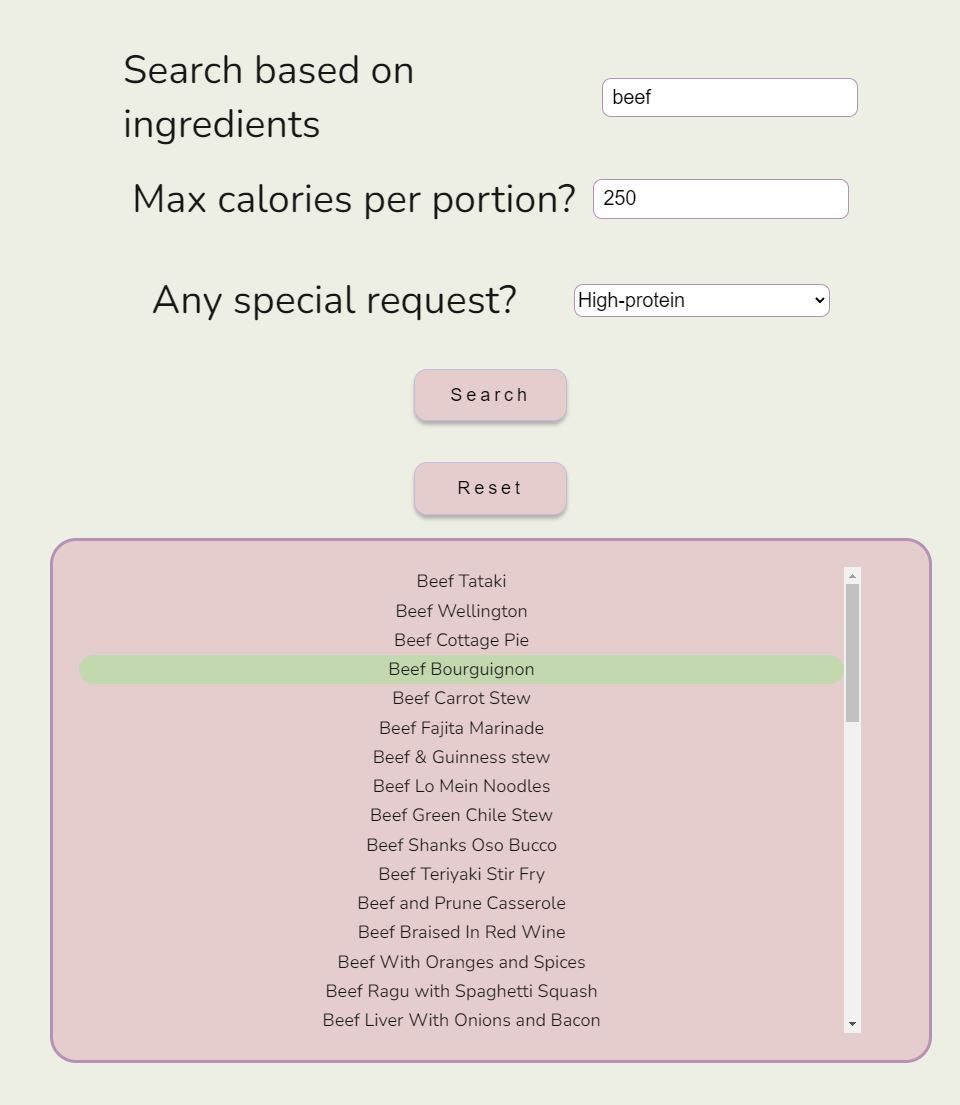
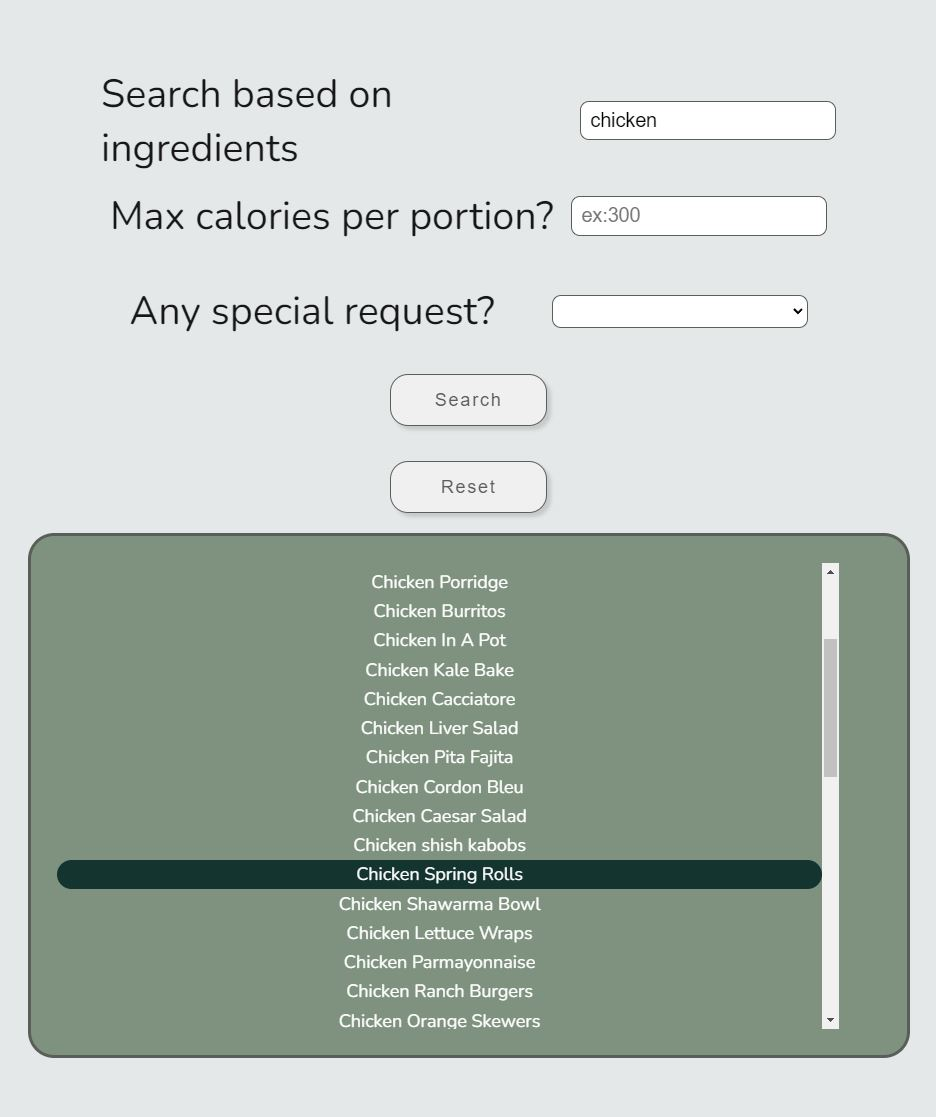
color theme changed

diff --git a/src/components/WineComponent.jsx b/src/components/WineComponent.jsx
@@ -11,7 +11,7 @@ function WineComponent({ containerData, searchValid }) {
   if (!pairingText) {
     return (
       <div className={styles.placeHolderContainer}>
-        <h2>Your meal is waiting for a partner</h2>
+        <h2>Your meal is waiting for a partner!</h2>
         <img alt="wine-placeholder" src="../../images/wine.png" />
       </div>
     );
@@ -37,9 +37,7 @@ function WineComponent({ containerData, searchValid }) {
           </div>
           <div className={styles.containerRightDescription}>
             <h2 className={styles.descriptionTitle}>{pairingTitle}</h2>
-            <p className={styles.descriptionPrice}>
-              ${parseFloat(productPrice).toFixed(2)}
-            </p>
+            <p>${parseFloat(productPrice).toFixed(2)}</p>
           </div>
         </div>
       </div>

diff --git a/src/components/WineComponent.module.css b/src/components/WineComponent.module.css
@@ -18,7 +18,6 @@
   border-color: var(--main-color-primary);
   box-shadow: 5px 5px 5px rgba(0, 0, 0, 0.212);
 }
-
 .wineMainContainerLeft {
   height: 90%;
   width: 60%;
@@ -28,6 +27,7 @@
   align-items: center;
   margin: 1rem;
   font-size: 2vh;
+  color: var(--plain-white);
 }
 .wineLeftPaired {
   height: 20%;
@@ -97,12 +97,13 @@
   align-items: center;
   text-align: center;
   font-size: 2vh;
+  color: var(--plain-white);
 }
 .placeHolderContainer {
   height: 80%;
   display: flex;
   flex-direction: column;
-  justify-content: center;
+  justify-content: space-between;
   align-items: center;
 }
 .placeHolderContainer img {

diff --git a/src/index.css b/src/index.css
@@ -1,11 +1,11 @@
 @import url("https://fonts.googleapis.com/css2?family=Nunito:ital,wght@0,200..1000;1,200..1000&display=swap");
 
 :root {
-  --background-color-primary: #edefe4;
-  --background-color-second: #e6cccd;
-  --main-color-primary: #b790b6;
-  --main-color-second: #c7b9e2;
-  --default-button: #c3d8ae;
+  --background-color-primary: #e5e8e9;
+  --background-color-second: #7a8f7bf6;
+  --main-color-primary: #5a5e59;
+  --main-color-second: #8799a169;
+  --default-button: rgb(11, 53, 47);
   --main-text: #171717;
   --plain-white: #ffffff;
 }

diff --git a/src/pages/Recipes.module.css b/src/pages/Recipes.module.css
@@ -10,13 +10,14 @@
 
 .recipesFirstHeader {
   margin-top: 2rem;
-  font-size: 4rem;
+  font-size: 5rem;
   padding: 2rem;
 }
 .recipesSecondHeader {
-  font-size: 2.2rem;
+  font-size: 4rem;
   padding: 2rem;
   margin-bottom: 2rem;
+  font-weight: 400;
 }
 
 .SearchAndDisplayContainer {

diff --git a/src/components/RecipesListGeneratedComponent.module.css b/src/components/RecipesListGeneratedComponent.module.css
@@ -23,6 +23,7 @@
   justify-content: flex-start;
   list-style: none;
   overflow: auto;
+  color: var(--plain-white);
 }
 
 .listComponent li {

diff --git a/src/pages/Heropage.module.css b/src/pages/Heropage.module.css
@@ -82,6 +82,7 @@
   height: 30%;
   padding: 5rem;
   font-size: 3rem;
+  color: var(--plain-white);
 }
 
 .credentials {
